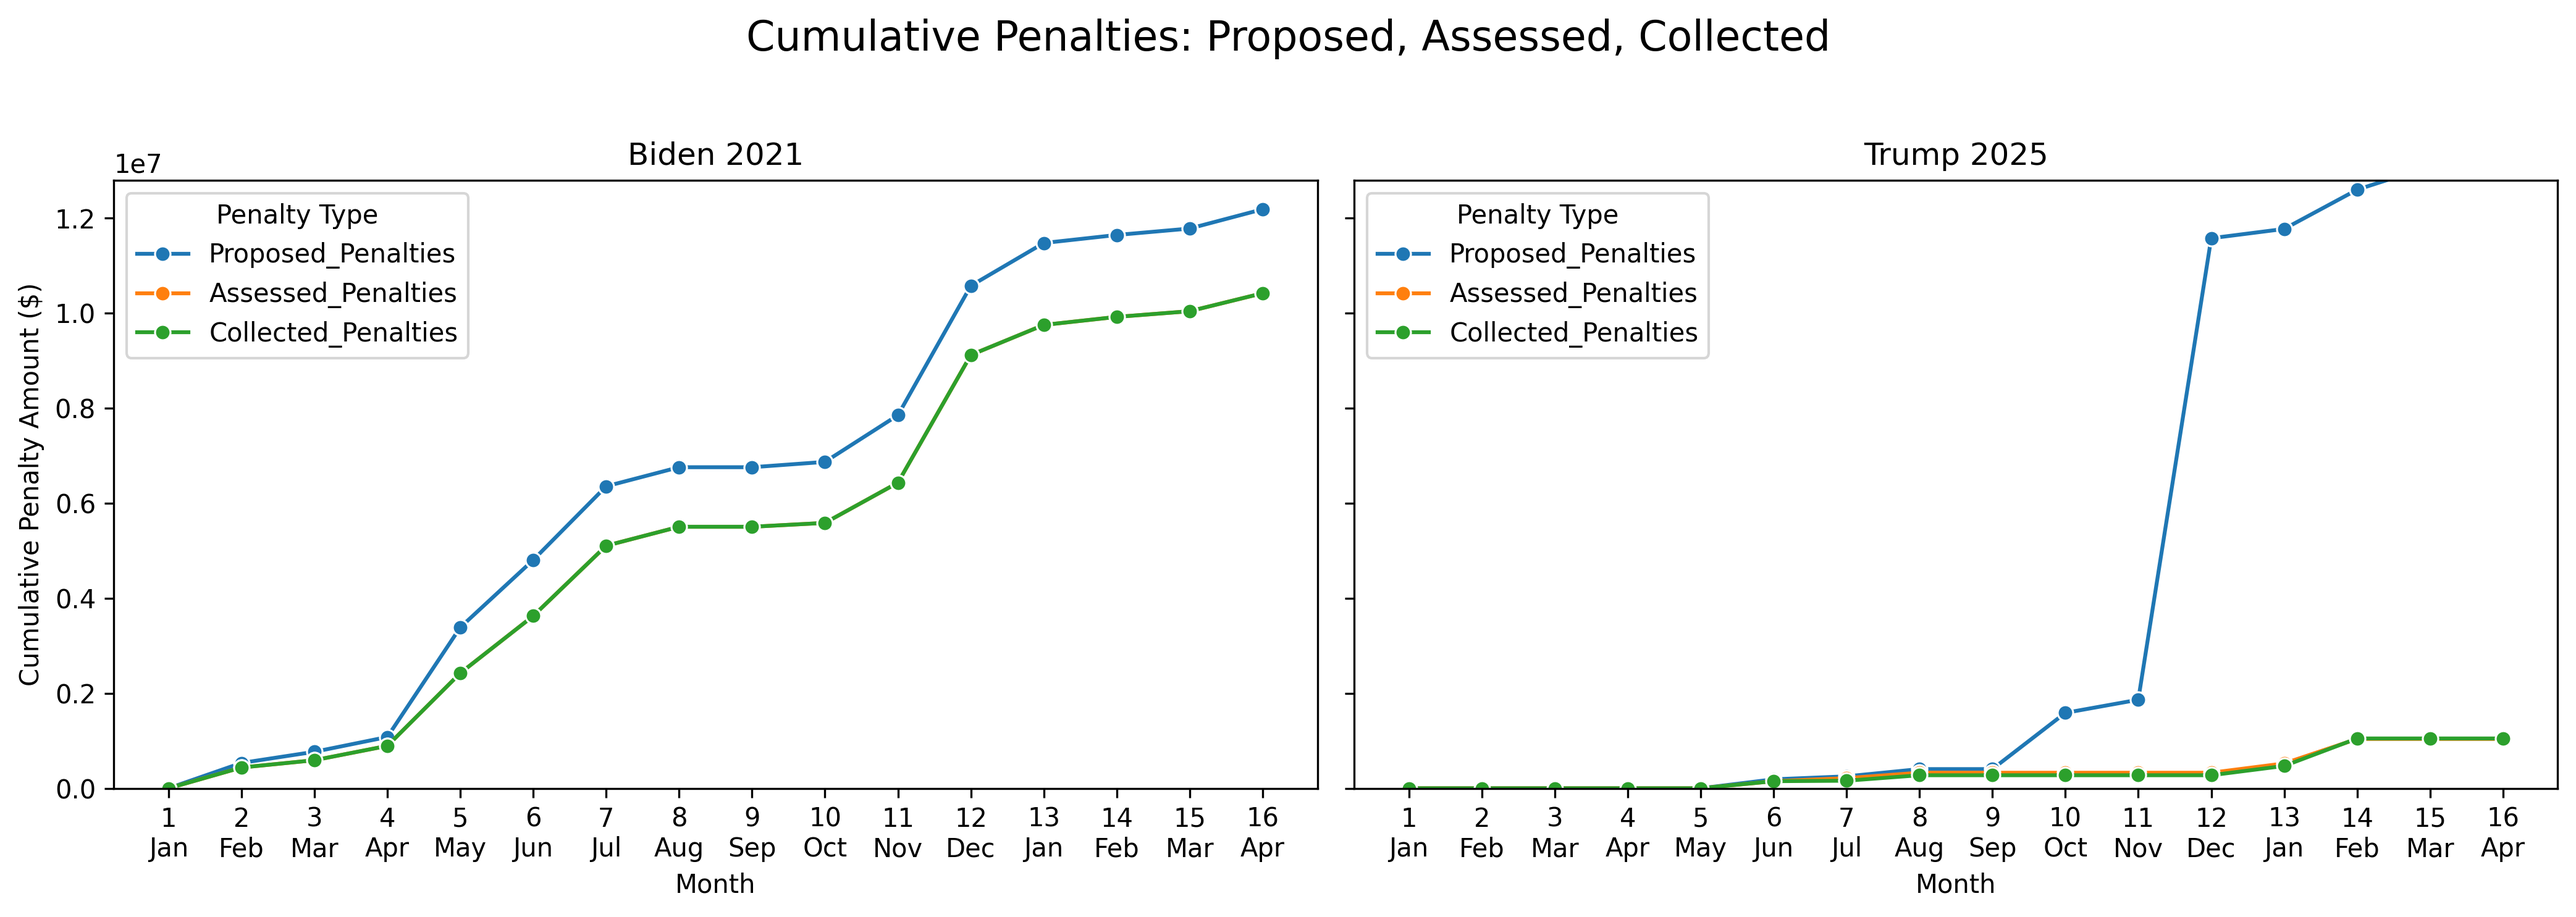
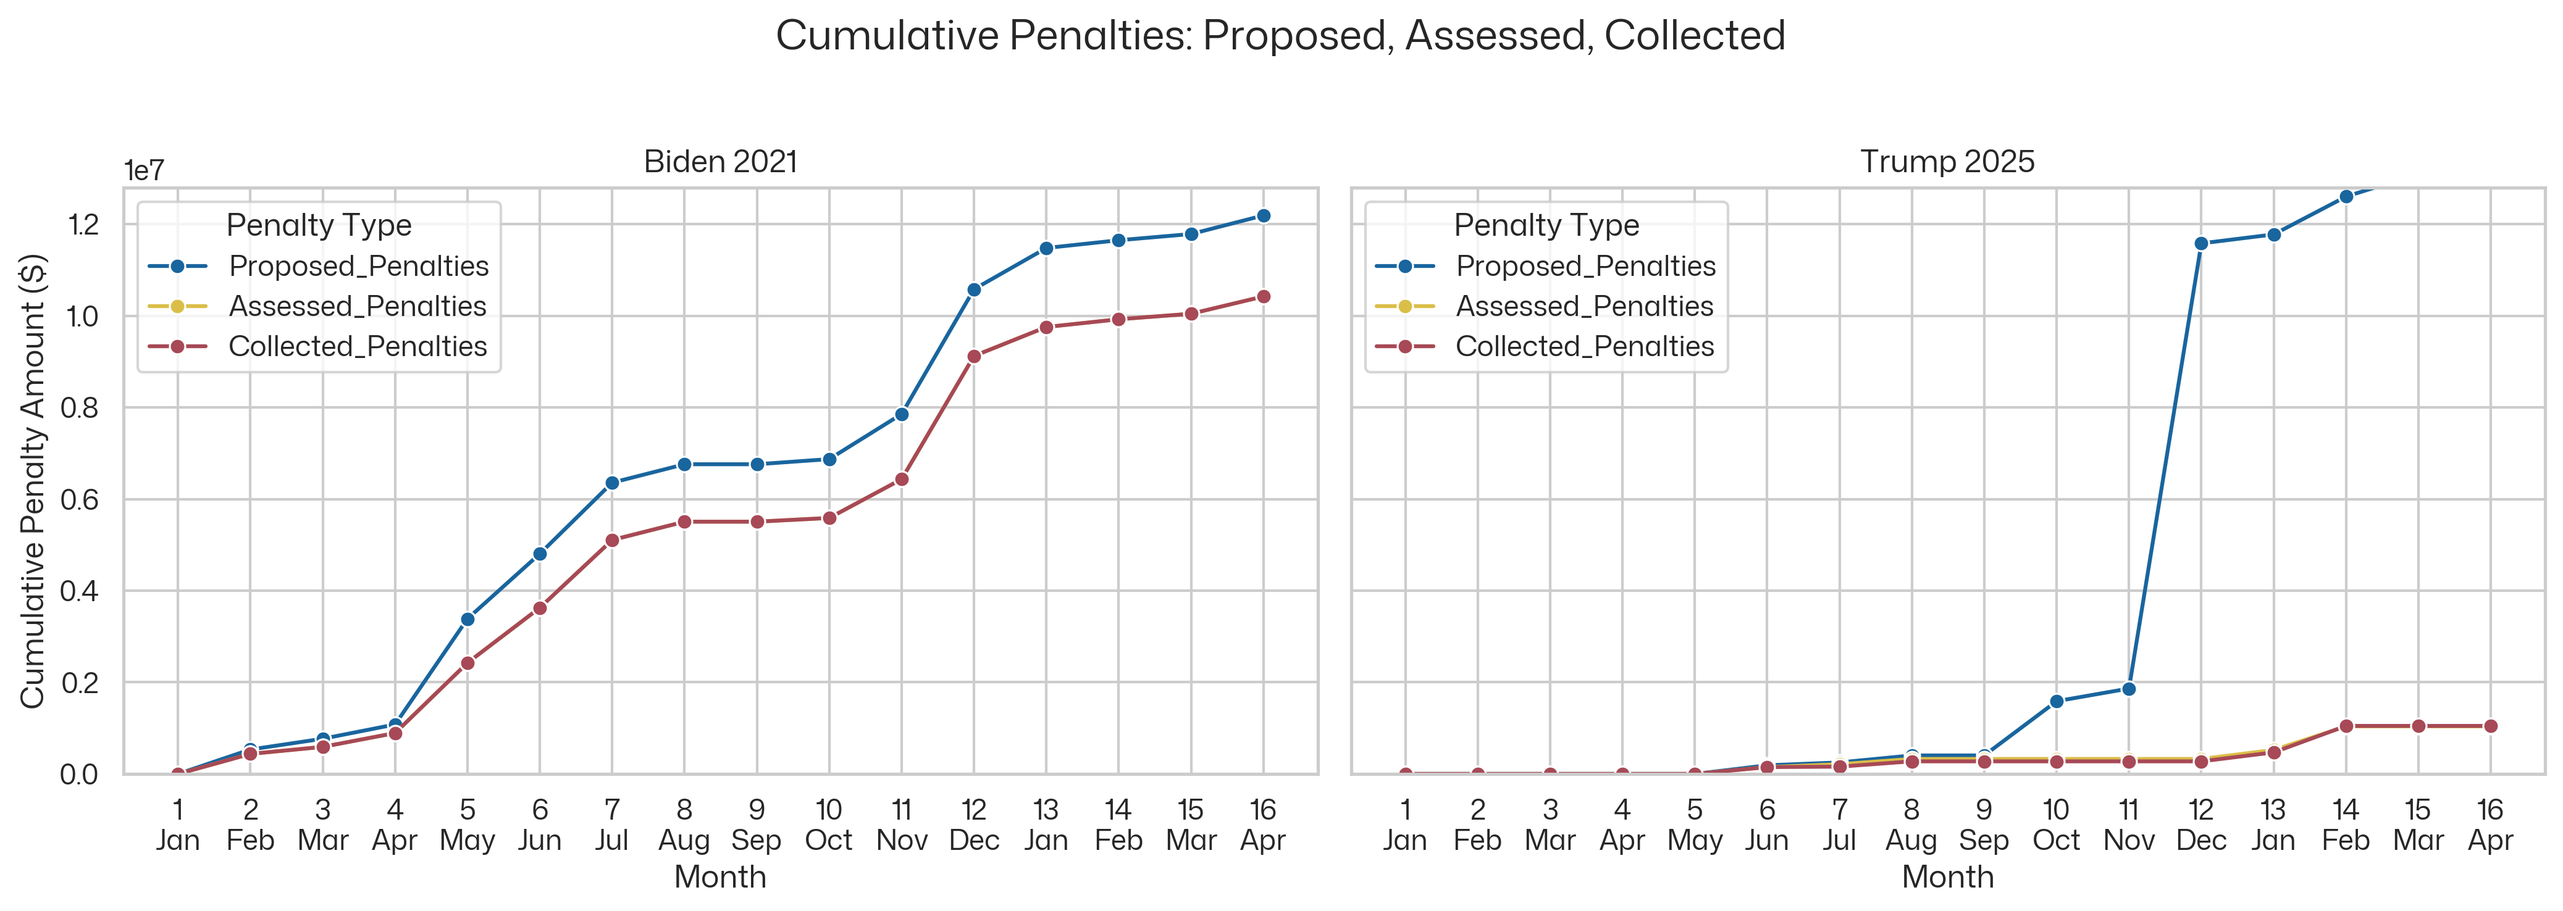
Font updates, fixes to merge conflicts

diff --git a/phmsa_enforcement_analysis/phmsa_enforcement_analysis.py b/phmsa_enforcement_analysis/phmsa_enforcement_analysis.py
@@ -1,4 +1,6 @@
+import matplotlib
 import pandas as pd
+from pyfonts import load_google_font
 import seaborn as sns
 import matplotlib.pyplot as plt
 import calendar
@@ -72,6 +74,34 @@ month_labels = []
 for i in month_range:
     month_idx = (trump_start.month + i - 2) % 12 + 1
     month_labels.append(f"{i}\n{calendar.month_abbr[month_idx]}")
+
+# Simple list versions of the gradients, which we can use for seaborn color palettes:
+bicolor_standard_list = ["#19659e", "#dbbe48", "#A74956"]
+sns.set_theme(style="whitegrid", palette=bicolor_standard_list)
+    
+# ------------------------------
+# FONT SETTINGS
+# ------------------------------
+
+# Get Mona Sans font from Google Fonts. 
+# URL: https://fonts.google.com/specimen/Mona+Sans
+font_path_regular = load_google_font("Mona Sans", weight='regular')
+font_path_bold = load_google_font("Mona Sans", weight='bold')
+matplotlib.font_manager.fontManager.addfont(font_path_regular.get_file())
+matplotlib.font_manager.fontManager.addfont(font_path_bold.get_file())
+
+# Helper function to set matplotlib fonts to our chosen font. This needs to be called AFTER sns.set_theme() is called,
+# hence this helper function to make that quick every time we graph something.
+def set_matplotlib_font(style = "regular"):
+    plt.rcParams["font.family"] = 'sans-serif'
+    if style == "regular":
+        plt.rcParams["font.sans-serif"] = font_path_regular.get_name()
+        sns.set_context("notebook", rc={"font.family": font_path_regular.get_name()})
+    elif style == "bold":
+        plt.rcParams["font.sans-serif"] = font_path_bold.get_name()
+        sns.set_context("notebook", rc={"font.family": font_path_bold.get_name()})
+
+set_matplotlib_font("regular")
 
 # ------------------------------
 # HELPER TO FILL MISSING MONTHS
